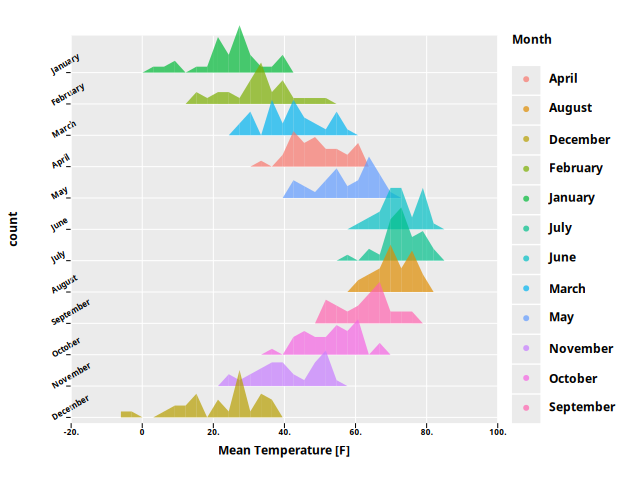
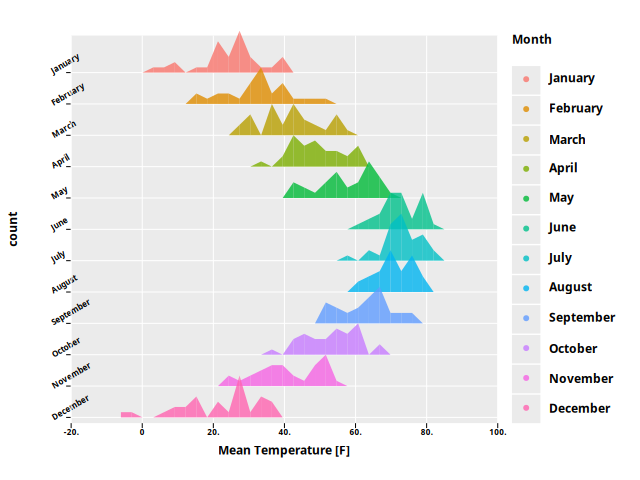
fix ridges color

diff --git a/src/python_ggplot/gg/scales/collect_and_fill.py b/src/python_ggplot/gg/scales/collect_and_fill.py
@@ -835,11 +835,11 @@ def fill_scale(
                     if scale.data is None:
                         raise GGException("expected data")
                     if scale.data.reversed:
-                        label_seq_opt = sorted(data.unique(), reverse=True)  # type: ignore
+                        label_seq_opt = list(data.unique().sort_values(ascending=False))  # type: ignore
                     else:
-                        label_seq_opt = sorted(data.unique())  # type: ignore
+                        label_seq_opt = list(data.unique().sort_values())  # type: ignore
                 else:
-                    label_seq_opt = sorted(data.unique())  # type: ignore
+                    label_seq_opt = list(data.unique().sort_values())  # type: ignore
             else:
                 label_seq_opt = discrete_kind.label_seq
 

diff --git a/tests/test_plots.py b/tests/test_plots.py
@@ -406,15 +406,15 @@ def test_ridges_weather():
         "November",
         "December",
     ]
-    label_order = {i: cnt for cnt, i in enumerate(month_order)}
+    weather['Month'] = pd.Categorical(weather['Month'], categories=month_order, ordered=True)
 
     plot = (
         ggplot(
             weather,
             aes(x="Mean Temperature [F]", fill="Month"),
         )
-        + ggridges("Month", label_order=label_order, overlap=1.7)
-        + geom_area(stat="bin", alpha=0.7)
+        + ggridges("Month", overlap=1.5)
+        + geom_area(stat="bin", alpha=0.8)
         + ylab(rotate=-30)
     )
 

diff --git a/README.md b/README.md
@@ -197,14 +197,14 @@ ggdraw_plot(res, plots_path / "geom_histogram_fill.png")
         "November",
         "December",
     ]
-    label_order = {i: cnt for cnt, i in enumerate(month_order)}
+    weather['Month'] = pd.Categorical(weather['Month'], categories=month_order, ordered=True)
 
     plot = (
         ggplot(
             weather,
-            aes(x="Mean Temperature [F]", y="Month", fill="Month"),
+            aes(x="Mean Temperature [F]", fill="Month"),
         )
-        + ggridges("Month", label_order=label_order, overlap=1.7)
+        + ggridges("Month", overlap=1.7)
         + geom_area(stat="bin", alpha=0.7)
         + ylab(rotate=-30)
     )
